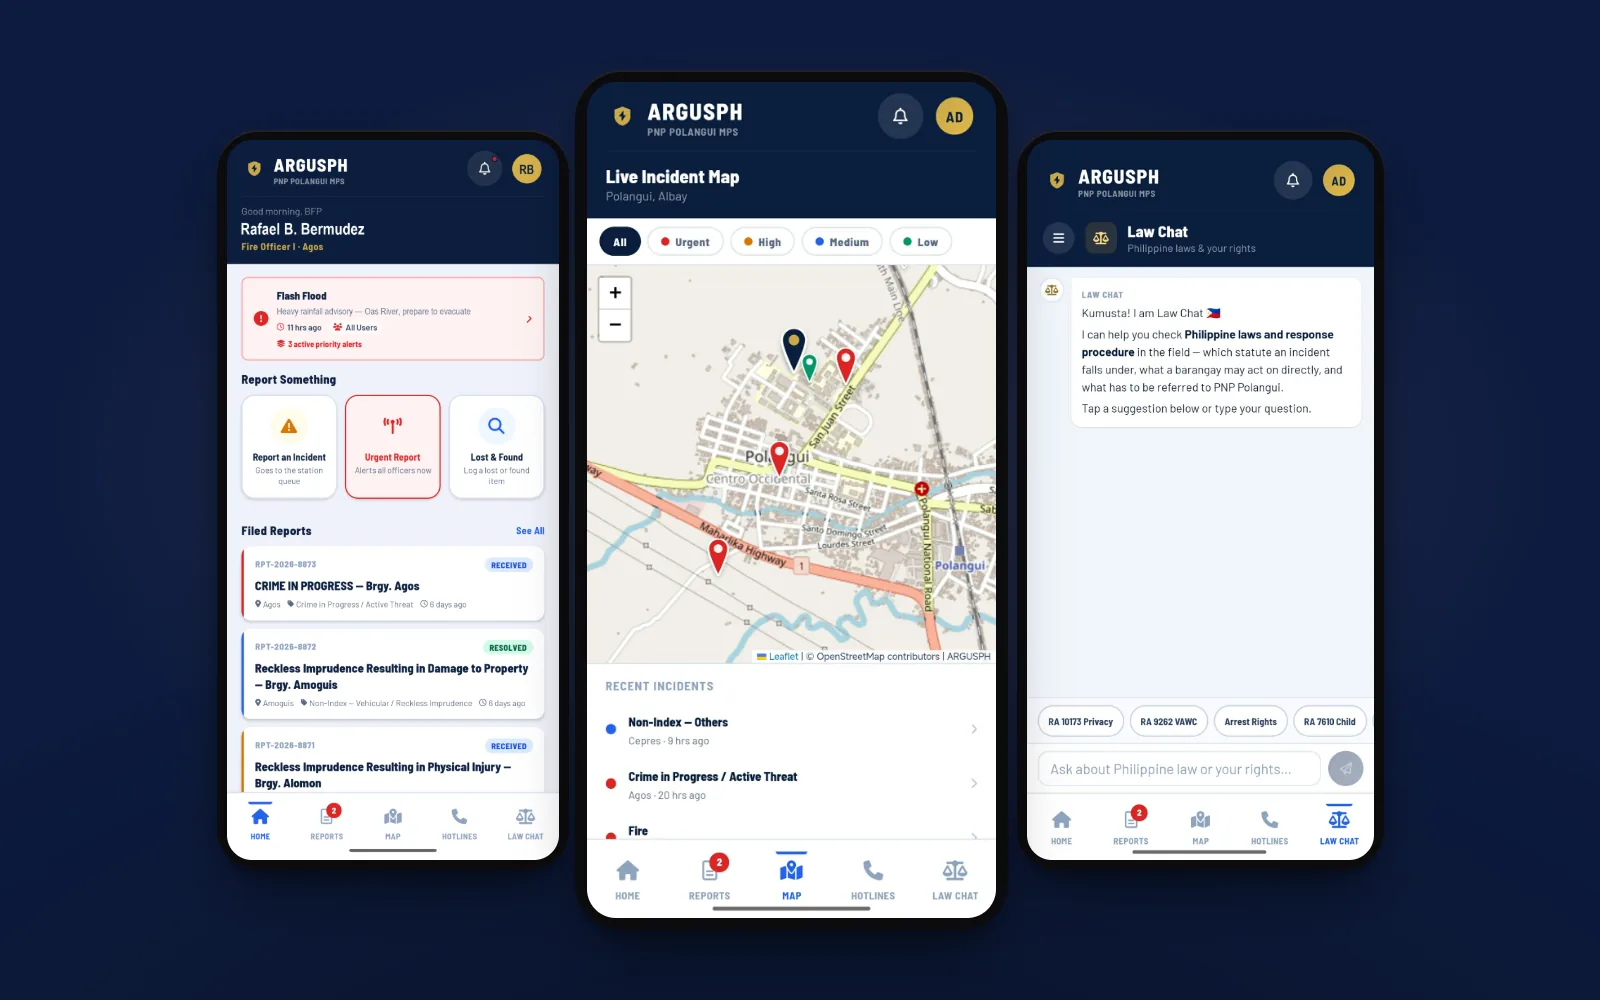
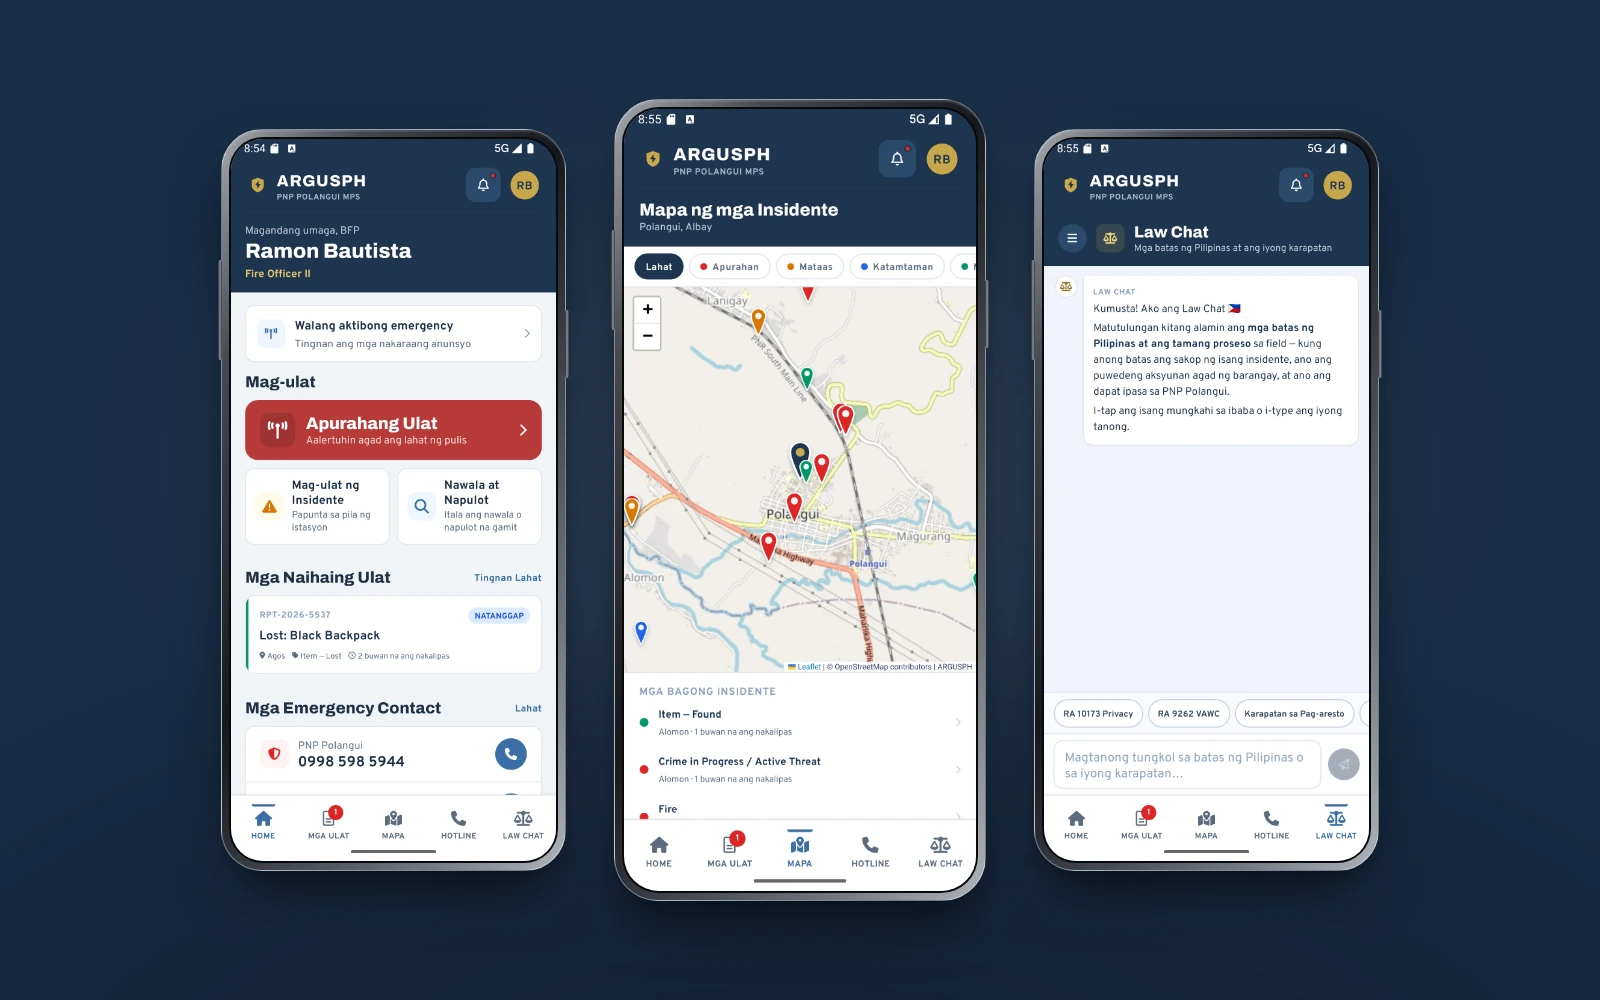
feat: refresh project galleries and balance leadership cards

Changed region(s): [[0.125, 0.062, 0.875, 0.93]]

diff --git a/js/images.js b/js/images.js
@@ -81,36 +81,36 @@ var IMAGES = {
         {
           src: "assets/images/projects/argusph/02-login.webp",
           w: 1600,
-          h: 785,
-          alt: "ARGUSPH sign-in page headed “Digital Policing. Safer Polangui.”, listing incident reports, crime mapping and audio alerts beside the login form.",
+          h: 1000,
+          alt: "Current ARGUSPH sign-in page with the Digital Policing introduction and officer or administrator login.",
           caption: "Sign in"
         },
         {
           src: "assets/images/projects/argusph/03-station-overview.webp",
           w: 1600,
           h: 1000,
-          alt: "Station overview dashboard for PNP Polangui: 49 total reports, 14 urgent cases, and a table of urgent cases by status and date.",
+          alt: "Current ARGUSPH station overview with the redesigned navigation, case summary, urgent-case queue and barangay report chart. Shown with labeled demo data.",
           caption: "Station overview"
         },
         {
           src: "assets/images/projects/argusph/04-crime-map.webp",
           w: 1600,
           h: 1000,
-          alt: "Interactive crime map of Polangui with colour-coded incident pins across 44 barangays, and a crime-density ranking beside it.",
+          alt: "Current ARGUSPH interactive map of Polangui, with incident filters, colored markers and barangay density. Shown with labeled demo data.",
           caption: "Crime map"
         },
         {
           src: "assets/images/projects/argusph/05-emergency-broadcast.webp",
           w: 1600,
           h: 1000,
-          alt: "Emergency broadcast composer with alert type, message body and target audience, beside quick templates for suspect alerts and disaster advisories.",
+          alt: "Current ARGUSPH emergency broadcast workspace with audience selection, quick templates, active-alert management and broadcast history.",
           caption: "Emergency broadcast"
         },
         {
           src: "assets/images/projects/argusph/06-mobile-app.webp",
           w: 1600,
           h: 1000,
-          alt: "Three phones showing the ARGUSPH responder app: the officer home with a flash-flood alert, the live incident map, and the Law Chat assistant.",
+          alt: "Three refined phone mockups showing the ARGUSPH mobile redesign in Filipino: reporting home, incident map and Law Chat. Screens captured October 25, 2026.",
           caption: "Mobile app"
         }
       ]
@@ -135,7 +135,7 @@ var IMAGES = {
       ]
     },
     "library-assistant": {
-      title: "Intelligent Library Assistant",
+      title: "AI-Integrated Book Collection System With Data Analytics",
       images: [
         {
           src: "assets/images/projects/library-assistant/01-logo.webp",
@@ -147,37 +147,44 @@ var IMAGES = {
         {
           src: "assets/images/projects/library-assistant/02-login.webp",
           w: 1600,
-          h: 786,
-          alt: "Library sign-in page headed “Your library, one search away”, with the librarian assistant character beside the email and Google sign-in form.",
+          h: 1000,
+          alt: "Current BU Library sign-in screen with catalog search, AI cover scanning and collection analysis features.",
           caption: "Sign in"
         },
         {
           src: "assets/images/projects/library-assistant/03-book-collection.webp",
           w: 1600,
-          h: 947,
-          alt: "Book collection table listing catalogued titles by author, department and year, across 11,881 titles and 21,185 physical copies.",
+          h: 1000,
+          alt: "Current book collection workspace with catalog search, program filters, synchronized inventory status and title records in the local demo.",
           caption: "Book collection"
         },
         {
           src: "assets/images/projects/library-assistant/04-ai-cover-scan.webp",
           w: 1600,
           h: 1000,
-          alt: "Add-a-book dialog where an AI smart scan of a book cover has filled in the title, author, program and year for checking before saving.",
+          alt: "Current Add New Book dialog with AI Smart Scan upload, collection category, program assignment and inventory fields.",
           caption: "AI cover scan"
         },
         {
           src: "assets/images/projects/library-assistant/05-library-assistant-chat.webp",
           w: 1600,
           h: 1000,
-          alt: "The library assistant chat answering how many books a degree programme holds, with title and volume counts drawn from the live catalogue.",
+          alt: "Current Library Assistant panel with catalog questions and navigation suggestions beside the book collection.",
           caption: "Library assistant"
         },
         {
           src: "assets/images/projects/library-assistant/06-collection-analysis.webp",
           w: 1600,
           h: 1000,
-          alt: "Collection analysis dashboard showing volumes required against volumes held per degree programme, measured against the CHED and AACCUP standard.",
+          alt: "Current collection analysis dashboard with academic period, enrollment totals, program requirements and the internal book-planning target.",
           caption: "Collection analysis"
+        },
+        {
+          src: "assets/images/projects/library-assistant/07-narrative-report.webp",
+          w: 1600,
+          h: 1000,
+          alt: "Current narrative report workspace with academic-period selection, report sections and collection insights in the local demo.",
+          caption: "Narrative report"
         }
       ]
     }

diff --git a/index.html b/index.html
@@ -538,18 +538,16 @@
                     <p class="organization__school">Bicol University Polangui</p>
                   </div>
                 </div>
-                <p class="organization__role">Senior Member, Programming Committee &middot; Project Lead, DevTayo</p>
+                <p class="organization__role">Senior Member, Programming Committee &middot; Project Lead, <!-- TODO: update if DevTayo moves to a custom domain --><a class="organization__link" href="https://devtayo.tsa-bu.workers.dev" target="_blank" rel="noopener noreferrer" aria-label="DevTayo (opens in a new tab)">DevTayo <svg class="icon" aria-hidden="true"><use href="#i-external" /></svg></a></p>
                 <ul class="pills" aria-label="Roles and focus">
                   <li class="pill">Programming Committee</li>
                   <li class="pill">Project Lead</li>
                 </ul>
                 <ul class="bullets">
-                  <li>Contributes to the Programming Committee as a senior member, supporting the organization's development work and helping guide newer members on technical projects.</li>
-                  <li>Leads DevTayo, a student-run community platform for Bicol University students that combines a searchable portfolio directory with a teammate matchmaker for hackathons and projects.</li>
-                  <li>Oversees DevTayo's direction as its super administrator, including sign-up locked to official @bicol-u.edu.ph Google accounts and a light-touch moderation approach that keeps the organization's workload manageable.</li>
+                  <li>Supports the Programming Committee's development work and guides newer members through technical projects.</li>
+                  <li>Leads DevTayo, a portfolio directory and teammate matchmaker connecting Bicol University students for projects.</li>
+                  <li>Guides DevTayo's direction as super administrator, helping students showcase work and connect with collaborators.</li>
                 </ul>
-                <!-- TODO: update if DevTayo moves to a custom domain -->
-                <a class="organization__link" href="https://devtayo.tsa-bu.workers.dev" target="_blank" rel="noopener noreferrer" aria-label="DevTayo (opens in a new tab)">DevTayo <svg class="icon" aria-hidden="true"><use href="#i-external" /></svg></a>
               </li>
               <li class="organization">
                 <!-- TODO: add membership years -->
@@ -569,9 +567,9 @@
                   <li class="pill">Events</li>
                 </ul>
                 <ul class="bullets">
-                  <li>Serves on the Technicals Committee, which handles the guild's technical execution and behind-the-scenes support during events.</li>
-                  <li>Helps keep event setups, equipment, and digital systems running smoothly so tournaments and gatherings go as planned.</li>
-                  <li>Supports the committee's digital preservation work, helping archive and safeguard the guild's organizational history.</li>
+                  <li>Supports the Technicals Committee with technical execution and behind-the-scenes coordination during guild events.</li>
+                  <li>Helps keep event setups, equipment, and digital systems running smoothly for the guild's tournaments and gatherings.</li>
+                  <li>Contributes to digital preservation, helping the committee archive and safeguard the guild's organizational history.</li>
                 </ul>
               </li>
             </ul>
@@ -649,10 +647,10 @@
               </li>
 
               <li class="card project">
-                <div class="carousel-col"><div class="carousel" data-carousel="projects:library-assistant" data-initials="LA" data-alt="Intelligent Library Assistant screenshot"></div></div>
+                <div class="carousel-col"><div class="carousel" data-carousel="projects:library-assistant" data-initials="LA" data-alt="AI-Integrated Book Collection System With Data Analytics screenshot"></div></div>
                 <div class="project__body">
                   <p class="meta">Capstone Project · Bicol University Polangui</p>
-                  <h3 class="project__title">Intelligent Library Assistant for Collection Analysis and Narrative Reporting</h3>
+                  <h3 class="project__title">AI-Integrated Book Collection System With Data Analytics</h3>
                   <p class="project__desc">
                     AI platform for automated metadata extraction and natural-language chatbot queries over a library
                     collection, built as a responsive PHP and JavaScript web app that serves desktop and mobile from one

diff --git a/css/styles.css b/css/styles.css
@@ -2371,10 +2371,9 @@ html.js .fade-up {
   display: inline-flex;
   align-items: center;
   gap: 0.35rem;
-  margin-top: 1.25rem;
-  font-family: var(--font-mono);
-  font-size: 12px;
+  font: inherit;
 }
 @media (min-width: 760px) {
   .organizations { grid-template-columns: repeat(2, minmax(0, 1fr)); }
+  .organization__role { min-height: 2.8em; }
 }

diff --git a/assets/images/projects/CAPTURE-NOTES.md b/assets/images/projects/CAPTURE-NOTES.md
@@ -1,0 +1,10 @@
+# Portfolio screenshot refresh
+
+Updated November 8, 2026.
+
+- ARGUSPH web UI: captured from the current local `ARGUSPH/admin` source. Auth and data were supplied only in the capture browser with synthetic records; screenshots explicitly say "Demo data / portfolio preview". No production records were changed. Login, overview, map and emergency broadcast were replaced.
+- ARGUSPH mobile UI: user approved reuse of the newer October 25, 2026 screenshots after the Android capture session remained locked. Source files: `ARGUSPH/scratch/m-home-fil.png`, `m-map-fil.png`, and `m-chat-fil.png`. These show the Filipino redesign. They are existing repo captures, not new build-47 captures.
+- Library UI: captured from `library_admin - Copy` using its built-in local defense demo, Firebase emulators and demo librarian. Login, book collection, Smart Scan, assistant and collection analysis were replaced; narrative report was added. The demo label remains visible. No production library data was changed.
+- SARO UI: retained original resident home, hazard form and assistant screens from `assets/images/_originals/projects/saro/`; rebuilt only their handset presentation.
+- Both mobile slides use `scripts/make-phone-slide.mjs`, 1600 x 1000, quality 90. Screenshot proportions are preserved. Slim metallic frames, matching inner/outer corner geometry and separated handsets replace the thick black overlapping frames.
+- Existing project logo assets are unchanged; logos are not UI screenshots.

diff --git a/README.md b/README.md
@@ -78,7 +78,7 @@ frame opens the lightbox on click, with arrow keys, swipe and Esc.
 | SARO | `projects.saro` | `assets/images/projects/saro/` |
 | ARGUSPH | `projects.argusph` | `assets/images/projects/argusph/` (empty) |
 | SafeTrack | `projects.safetrack` | `assets/images/projects/safetrack/` |
-| Intelligent Library Assistant | `projects["library-assistant"]` | `assets/images/projects/library-assistant/` (empty) |
+| AI-Integrated Book Collection System With Data Analytics | `projects["library-assistant"]` | `assets/images/projects/library-assistant/` |
 | Ibalong Hackathon 2026 | `achievements["ibalong-2026"]` | `assets/images/achievements/ibalong-2026/` |
 | AI4AI Fair 2026 | `achievements["ai4ai-2026"]` | `assets/images/achievements/ai4ai-2026/` |
 
